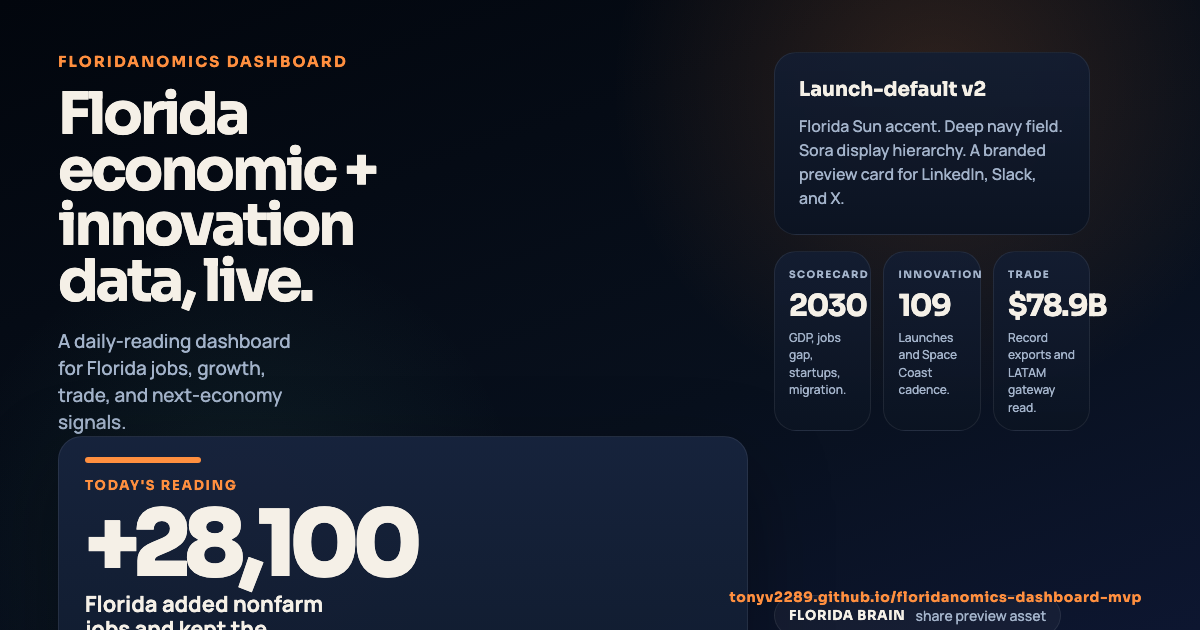
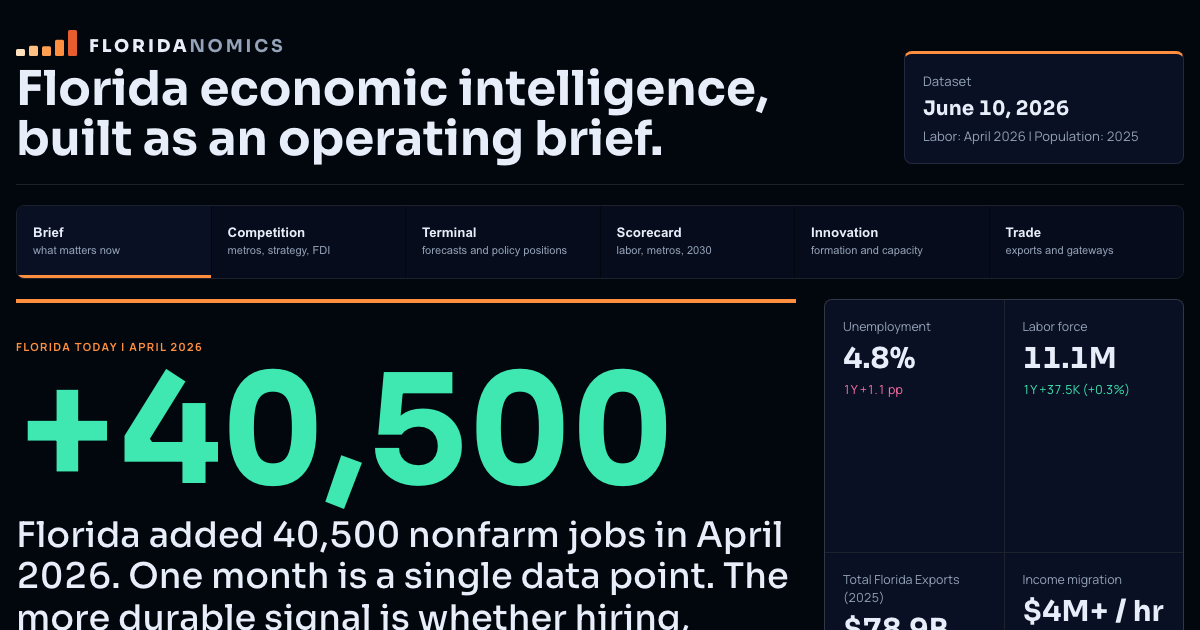
Fix count-up negative first frame; regenerate OG image from live design
requestAnimationFrame can deliver a timestamp earlier than the
performance.now() captured at effect start, which made the eased
progress negative and flashed a negative payroll number for one
frame. Clamp progress to [0, 1]. OG image is now a real render of
the current masthead and Brief tab instead of the pre-rewrite
screenshot.

diff --git a/src/v3/BriefTab.tsx b/src/v3/BriefTab.tsx
@@ -24,7 +24,7 @@ function useCountUp(target: number, durationMs = 900): number {
     let frame = 0;
     const start = performance.now();
     const tick = (now: number) => {
-      const progress = reduceMotion ? 1 : Math.min((now - start) / durationMs, 1);
+      const progress = reduceMotion ? 1 : Math.min(Math.max((now - start) / durationMs, 0), 1);
       const eased = 1 - Math.pow(1 - progress, 3);
       setValue(Math.round(target * eased));
       if (progress < 1) {